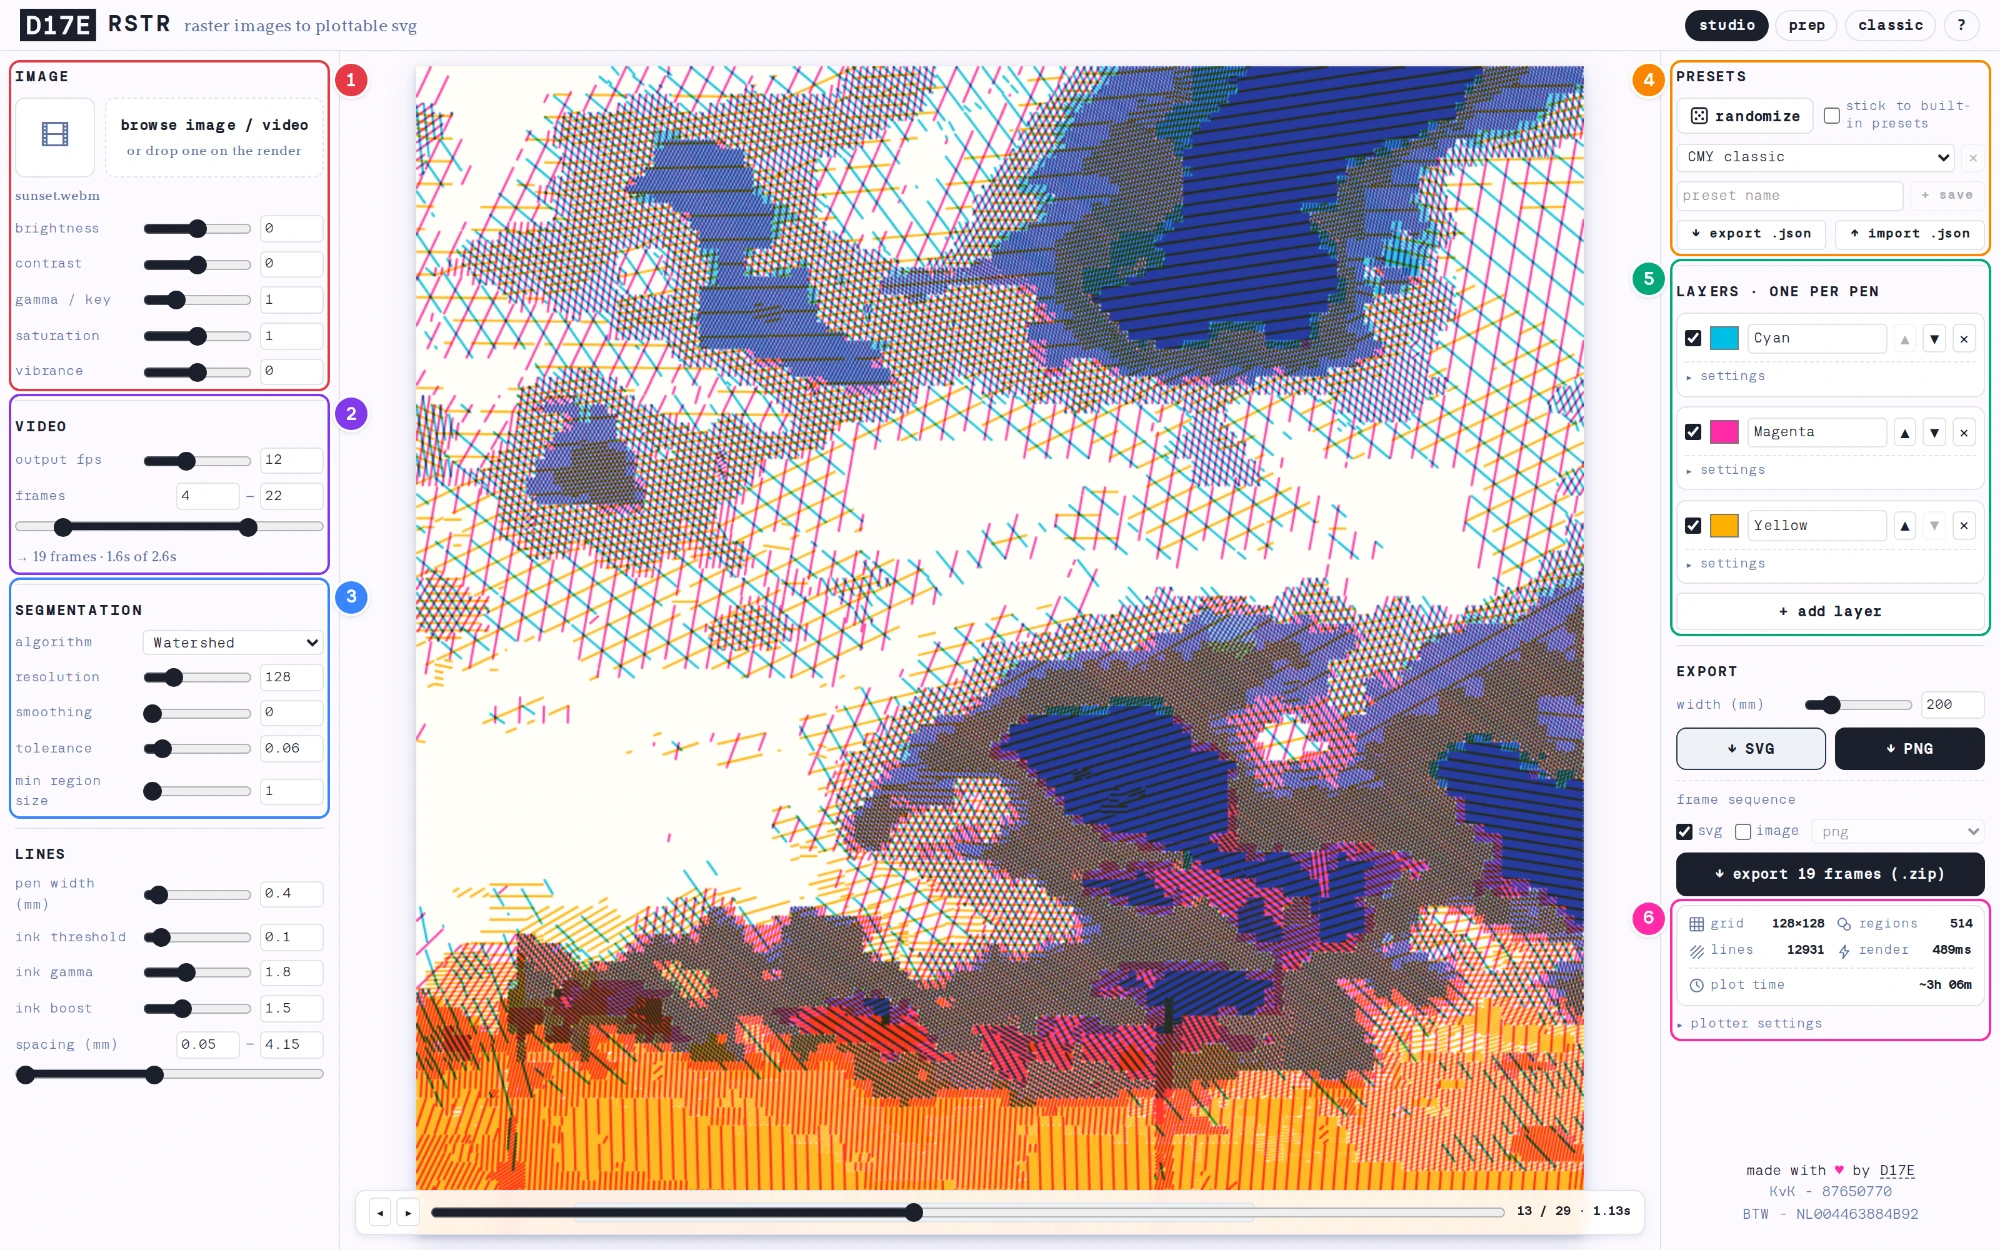
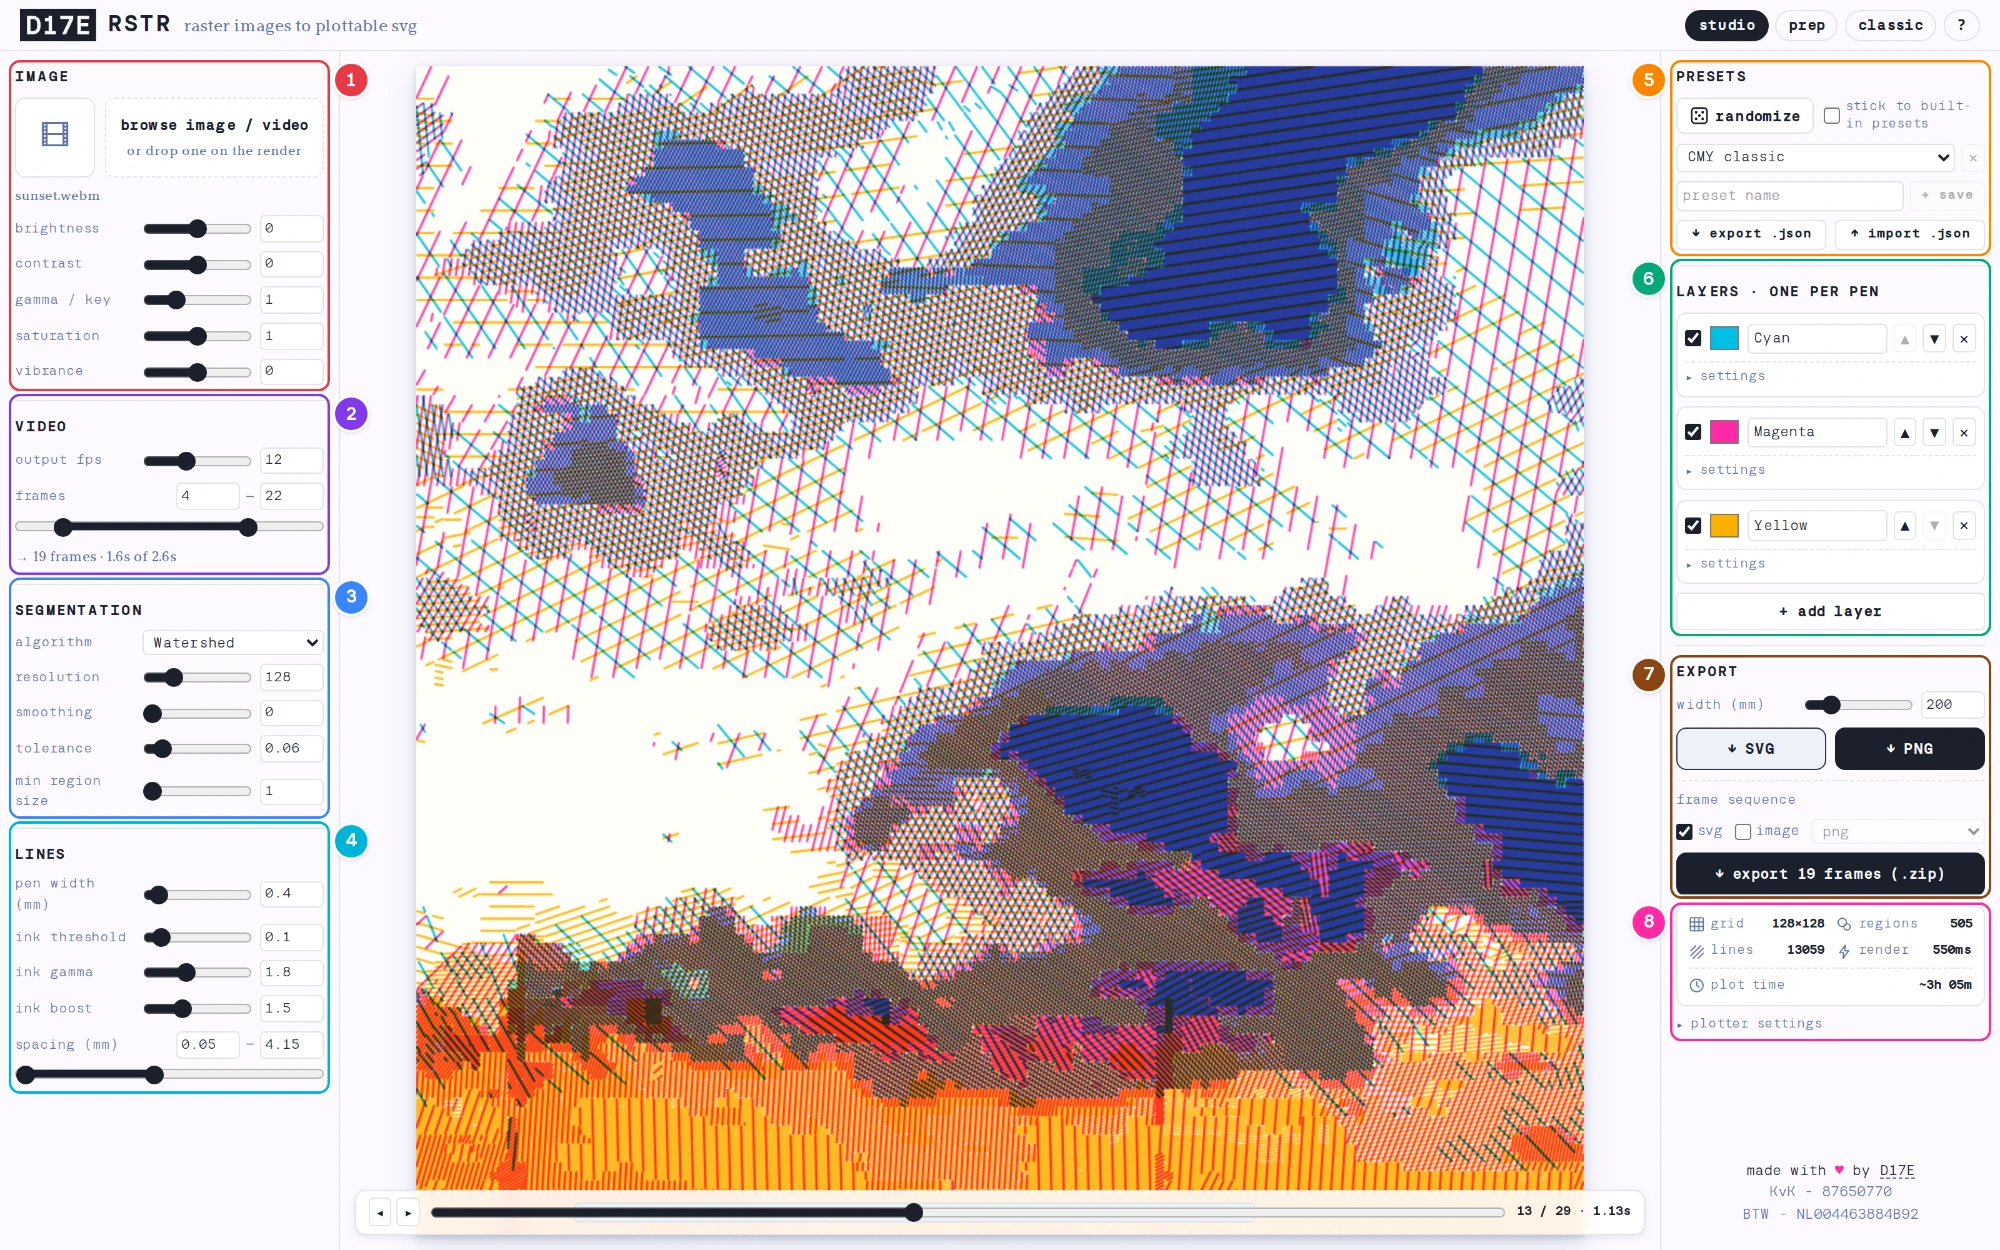
Help: also outline lines & export on the studio shot, renumber to 1-8
The annotated studio screenshot missed two areas: the outlines now cover
all eight — image, video, segmentation and lines down the left pane,
presets, layers, export and stats down the right — numbered in reading
order, with the legend below extended to match. Export and stats share
one panel in the app, so their boxes are split with tightened facing
padding to keep the outlines apart.

Claude-Session: https://claude.ai/code/session_01CNdUkLTVFH2nq1dJmf2JhX

diff --git a/src/routes/(site)/help/+page.svelte b/src/routes/(site)/help/+page.svelte
@@ -24,7 +24,7 @@
 		<a href="/help/studio-sections.webp" target="_blank" rel="noopener">
 			<img
 				src="/help/studio-sections.webp"
-				alt="the RSTR studio on desktop, its sections outlined and numbered — 1 source & adjustments, 2 video and 3 segmentation on the left, 4 presets, 5 layers and 6 stats on the right, the render in the middle"
+				alt="the RSTR studio on desktop, its sections outlined and numbered — 1 source & adjustments, 2 video, 3 segmentation and 4 lines on the left, 5 presets, 6 layers, 7 export and 8 stats on the right, the render in the middle"
 				width="2000"
 				height="1250"
 			/>
@@ -45,19 +45,29 @@
 			<span class="map-dot">3</span>
 			<span><strong>segmentation</strong> — how the image is carved into tonal regions.</span>
 		</li>
-		<li style="--c: #fb8500">
+		<li style="--c: #00b4d8">
 			<span class="map-dot">4</span>
+			<span><strong>lines</strong> — pen width and how ink turns into line spacing.</span>
+		</li>
+		<li style="--c: #fb8500">
+			<span class="map-dot">5</span>
 			<span><strong>presets</strong> — randomize everything, or save and share complete looks.</span
 			>
 		</li>
 		<li style="--c: #06a77d">
-			<span class="map-dot">5</span>
+			<span class="map-dot">6</span>
 			<span
 				><strong>layers</strong> — one pen per layer: color, channel, hatch angles, overrides.</span
 			>
 		</li>
+		<li style="--c: #8b4513">
+			<span class="map-dot">7</span>
+			<span
+				><strong>export</strong> — output width and the SVG, PNG and frame-sequence downloads.</span
+			>
+		</li>
 		<li style="--c: #ff2aa6">
-			<span class="map-dot">6</span>
+			<span class="map-dot">8</span>
 			<span><strong>stats</strong> — render numbers and the estimated plot time.</span>
 		</li>
 	</ol>